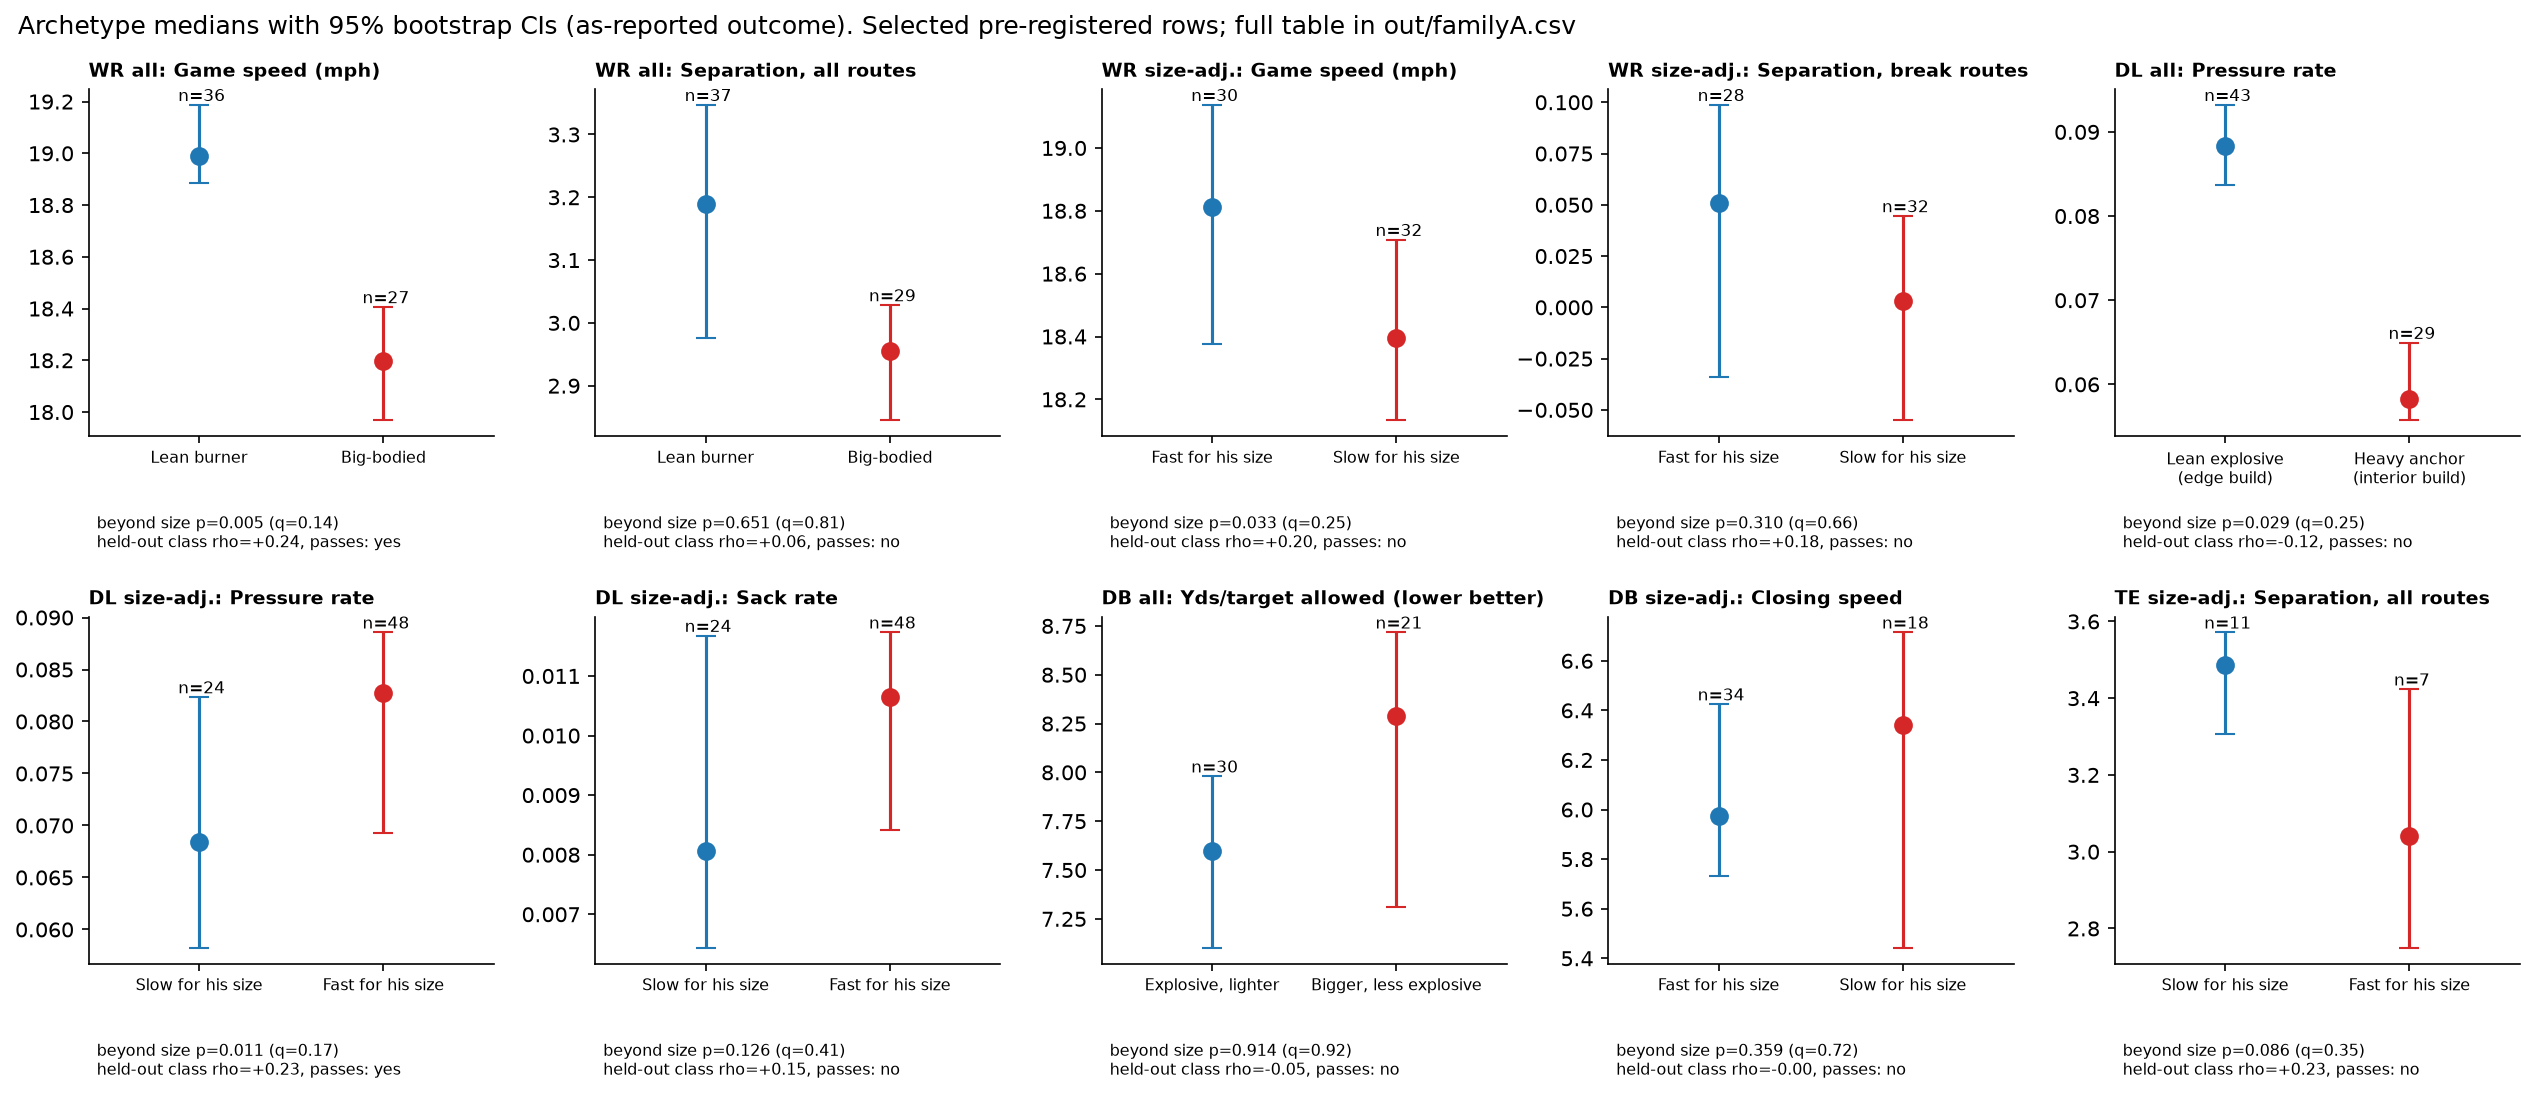
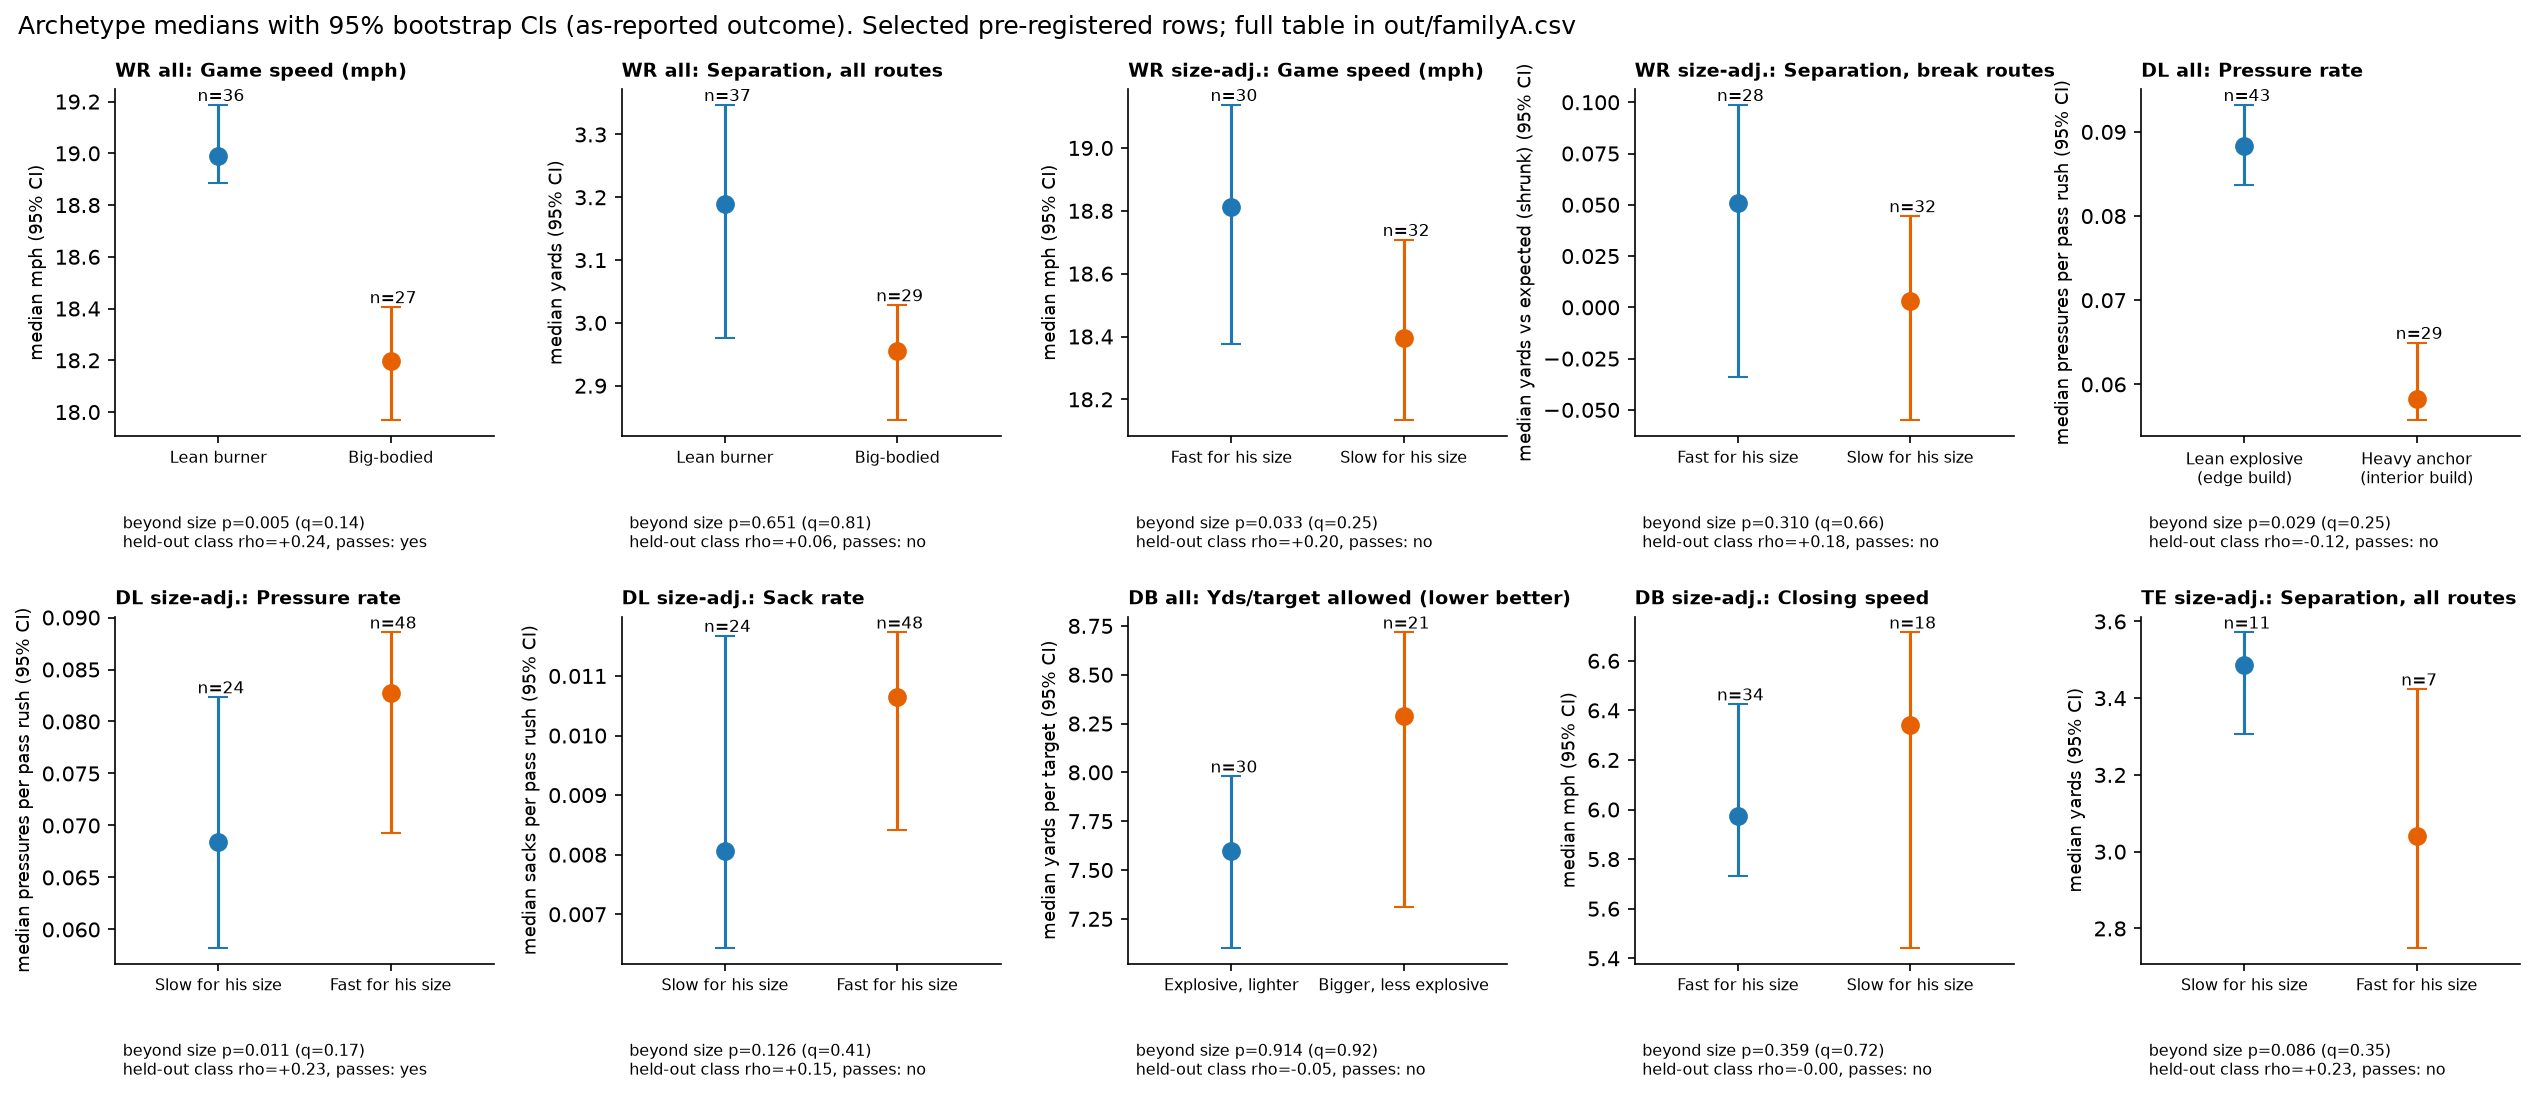
Unsupervised figs v2: labeled colorbars on heatmaps (fig5 row-% Blues, fig7 viridis alpha -0.2..1 with 0.6 threshold), colorblind-safe palette, axis labels/units

diff --git a/unsupervised/u06_figures.py b/unsupervised/u06_figures.py
@@ -5,6 +5,7 @@ import numpy as np, pandas as pd
 import matplotlib
 matplotlib.use("Agg")
 import matplotlib.pyplot as plt
+import matplotlib.ticker
 from sklearn.decomposition import PCA
 from sklearn.manifold import TSNE
 from common import CACHE, OUT, FIGS, GROUPS, SEED
@@ -23,7 +24,10 @@ OUTS = {"sunday_speed_mph": "Game speed (mph)", "sep_all_mean": "Separation, all
         "tackle_rate": "Tackle rate", "tfl_rate": "TFL rate", "close_rate_mph": "Closing speed", "pfr_yds_tgt": "Yds/target allowed (lower better)",
         "pfr_mtkl_pct": "Missed-tackle % (lower better)", "pressure_rate": "Pressure rate", "sack_rate": "Sack rate", "run_stop_rate": "Run-stop rate",
         "speed_1s_mph": "Get-off speed at 1 s"}
-C2 = ["#1f77b4", "#d62728", "#2ca02c"]
+UNITS = {"sunday_speed_mph": "mph", "sep_all_mean": "yards", "break_y": "yards vs expected (shrunk)", "pressure_rate": "pressures per pass rush",
+         "sack_rate": "sacks per pass rush", "pfr_yds_tgt": "yards per target", "close_rate_mph": "mph", "tfl_rate": "TFL per snap",
+         "tackle_rate": "tackles per snap", "pfr_mtkl_pct": "missed-tackle %", "run_stop_rate": "run stops per run snap", "speed_1s_mph": "mph"}
+C2 = ["#1f77b4", "#e66100", "#5e3c99"]   # blue / orange / purple: colourblind-safe
 
 
 def fig_biplot(cf, arch):
@@ -53,7 +57,7 @@ def fig_types():
     ax = axs[0]
     km = s[(s.method == "kmeans") & (s.fset == "ALL")]
     for i, g in enumerate(GROUPS):
-        d = km[km.group == g]; ax.plot(d.k, d.boot_ari_median, "o-", label=g)
+        d = km[km.group == g]; ax.plot(d.k, d.boot_ari_median, ["o-", "s--", "^-", "D-."][i], color=["#1f77b4", "#e66100", "#5e3c99", "#222222"][i], label=g)
     ax.axhline(.6, ls="--", c="k", lw=1); ax.text(6.05, .6, "stable\n(ARI 0.6)", fontsize=8, va="center")
     ax.set_xlabel("number of archetypes (k-means k)"); ax.set_ylabel("bootstrap stability (median ARI)"); ax.set_ylim(0, 1)
     ax.set_title("Only 2-way splits are stable", loc="left", fontweight="bold"); ax.legend(frameon=False)
@@ -67,11 +71,11 @@ def fig_types():
         for xi, (_, r) in zip(x, e.iterrows()):
             if r.p_one_blob < 0.05:
                 ax.text(xi + (j - 1) * w, r.sil_obs + .01, "*", ha="center", fontsize=14)
-    ax.set_xticks(x, GROUPS); ax.set_ylabel("silhouette (higher = more distinct types)")
+    ax.set_xticks(x, GROUPS); ax.set_xlabel("Position group"); ax.set_ylabel("silhouette (higher = more distinct types)")
     ax.set_title("Real data vs one continuous blob (black = blob median to 95th pct)", loc="left", fontweight="bold", fontsize=10)
-    ax.legend(frameon=False, fontsize=8); ax.text(0, -.16, "* = more distinct than a single blob (p < 0.05).\nOnly DL k = 2 (edge build vs interior build) and an unstable WR k = 3 qualify.",
+    ax.legend(frameon=False, fontsize=8); ax.text(0, -.24, "* = more distinct than a single blob (p < 0.05).\nOnly DL k = 2 (edge build vs interior build) and an unstable WR k = 3 qualify.",
                                                    transform=ax.transAxes, fontsize=8)
-    fig.tight_layout(rect=(0, .05, 1, 1)); fig.savefig(FIGS / "u_fig2_types_or_continuum.png", bbox_inches="tight"); plt.close(fig)
+    fig.tight_layout(rect=(0, .08, 1, 1)); fig.savefig(FIGS / "u_fig2_types_or_continuum.png", bbox_inches="tight"); plt.close(fig)
 
 
 def fig_centroids():
@@ -105,6 +109,7 @@ def fig_arch_outcome():
             ax.errorbar(e.arch, e["median"], yerr=[[e["median"] - e.boot_lo], [e.boot_hi - e["median"]]], fmt="o", ms=8, color=C2[int(e.arch)], capsize=5)
             ax.text(e.arch, e.boot_hi, f" n={e.n}", fontsize=8, va="bottom", ha="center")
         ax.set_xticks(d.arch, [ARCH_NAME[(g, fs)][int(k)].replace(" (", "\n(") for k in d.arch], fontsize=7.5); ax.set_xlim(-.6, 1.6)
+        ax.set_ylabel(f"median {UNITS[o]} (95% CI)", fontsize=8.5)
         ax.set_title(f"{g} {'size-adj.' if fs == 'SIZEADJ' else 'all'}: {OUTS[o]}", loc="left", fontsize=9, fontweight="bold")
         held = "yes" if (r.loso_p < .05 and r.loso_classes_pos >= 2 and r.loso_rho > 0) else "no"
         ax.text(.02, -.32, f"beyond size p={r.p_size:.3f} (q={r.q_size:.2f})\nheld-out class rho={r.loso_rho:+.2f}, passes: {held}", transform=ax.transAxes, fontsize=7.5)
@@ -119,19 +124,23 @@ def fig_crosstab():
           "DB": {0: "Deep / zone\n(high safety,\nbig cushion)", 1: "Man / press\n(tight, faster)"},
           "DL": {0: "Edge rusher\n(fast first second)", 1: "Interior\n(slower first second)"}}
     style_name = lambda g, k: SN[g][k]
-    fig, axs = plt.subplots(1, 4, figsize=(17, 4.6), gridspec_kw=dict(width_ratios=[3, 3, 2, 2], wspace=.75))
-    for ax, g in zip(axs, GROUPS):
+    fig, axs = plt.subplots(2, 2, figsize=(13, 9.5), gridspec_kw=dict(wspace=.55, hspace=.75))
+    for ax, g in zip(axs.flat, GROUPS):
         m = ct[ct.group == g].pivot_table(index="combine_arch", columns="game_style", values="count", fill_value=0)
         sh = m.div(m.sum(axis=1), axis=0)
-        ax.imshow(sh, cmap="Blues", vmin=0, vmax=1)
+        im = ax.imshow(sh, cmap="Blues", vmin=0, vmax=1)
         for i in range(m.shape[0]):
             for j in range(m.shape[1]):
-                ax.text(j, i, f"{int(m.iloc[i, j])}", ha="center", va="center", color="k" if sh.iloc[i, j] < .6 else "w")
+                ax.text(j, i, f"{int(m.iloc[i, j])}\n({sh.iloc[i, j]:.0%})", ha="center", va="center", fontsize=9, color="k" if sh.iloc[i, j] < .6 else "w")
+        ax.set_xlabel("In-game style (game movement + deployment cluster)", fontsize=9)
+        ax.set_ylabel("Combine archetype", fontsize=9)
         ax.set_yticks(range(m.shape[0]), [ARCH_NAME[(g, "ALL")][k].replace(" (", "\n(") for k in m.index], fontsize=8.5)
-        ax.set_xticks(range(m.shape[1]), [style_name(g, k) for k in m.columns], fontsize=7.5)
+        ax.set_xticks(range(m.shape[1]), [style_name(g, k) for k in m.columns], fontsize=8.5)
         r = t[t.group == g].iloc[0]
         ax.set_title(f"{g} (n={r.n}): ARI {r.ari:.2f}, q={r.q_ari:.3f}{'' if r.style_stable else ' (styles unstable)'}", loc="left", fontsize=9, fontweight="bold")
-    fig.suptitle("Combine archetype (rows) vs in-game movement/deployment style (columns): counts, shaded by row share", x=.01, ha="left")
+    cb = fig.colorbar(im, ax=list(axs.flat), fraction=.025, pad=.03)
+    cb.set_label("Share of the archetype's players\nin each game style (row %)", fontsize=9); cb.ax.yaxis.set_major_formatter(matplotlib.ticker.PercentFormatter(1.0))
+    fig.suptitle("Combine archetype (rows) vs in-game movement/deployment style (columns)\nCell = number of players (row %); shading = row %", x=.01, ha="left")
     fig.savefig(FIGS / "u_fig5_combine_vs_game_style.png", bbox_inches="tight"); plt.close(fig)
 
 
@@ -142,33 +151,40 @@ def fig_forest():
     fig, ax = plt.subplots(figsize=(10, 13))
     y = np.arange(len(b))
     held = (b.loso_p < .05) & (b.loso_classes_pos >= 2) & (b.loso_rho > 0)
-    col = np.where(b.q_size < .05, "#2ca02c", np.where(b.p_size < .05, "#ff7f0e", "0.6"))
+    col = np.where(b.q_size < .05, "#1f4e9c", np.where(b.p_size < .05, "#e66100", "0.6"))
     ax.hlines(y, b.lo, b.hi, color=col); ax.scatter(b.rho_size, y, c=col, s=np.where(held, 60, 20), zorder=3, edgecolor=np.where(held, "k", "none"))
     ax.axvline(0, c="k", lw=.8); ax.set_yticks(y, b.name, fontsize=7)
     ax.set_xlabel("rank partial correlation, draft year + weight + height (+ role) held fixed; 95% bootstrap CI")
-    ax.set_title("Latent Combine axes vs game outcomes (Family B)\ngreen = q < 0.05, orange = p < 0.05 only, grey = not detected\nbig black-edged dot = training-class fit also ranks the held-out class (either sign)", loc="left", fontsize=9)
+    ax.set_title("Latent Combine axes vs game outcomes (Family B)\ndark blue = q < 0.05, orange = p < 0.05 only, grey = not detected\nbig black-edged dot = training-class fit also ranks the held-out class (either sign)", loc="left", fontsize=9)
     fig.tight_layout(); fig.savefig(FIGS / "u_fig6_latent_axes_forest.png", bbox_inches="tight"); plt.close(fig)
 
 
 def fig_quality():
     r = pd.read_csv(OUT / "drill_reliability.csv"); ph = pd.read_csv(OUT / "posthoc.csv")
-    fig, axs = plt.subplots(1, 2, figsize=(13, 5), gridspec_kw=dict(wspace=.45))
+    fig, axs = plt.subplots(1, 2, figsize=(15, 5.4), gridspec_kw=dict(wspace=.9, width_ratios=[1, 1.1]))
     ax = axs[0]
     piv = r.pivot_table(index="feature", columns="group", values="alpha_k")[GROUPS]
     names = {"drill_top": "peak speed", "drill_acc": "peak accel", "drill_dec": "braking", "drill_keep": "speed kept in cuts", "drill_turn": "turn rate", "drill_dur": "duration"}
-    im = ax.imshow(piv.clip(-.2, 1), cmap="RdYlGn", vmin=-.2, vmax=1)
+    im = ax.imshow(piv.clip(-.2, 1), cmap="viridis", vmin=-.2, vmax=1)
     for i in range(piv.shape[0]):
         for j in range(piv.shape[1]):
-            ax.text(j, i, f"{piv.iloc[i, j]:.2f}", ha="center", va="center", fontsize=8)
+            v = piv.iloc[i, j]
+            ax.text(j, i, f"{v:.2f}" + (" *" if v >= .6 else ""), ha="center", va="center", fontsize=9, color="k" if v > .45 else "w",
+                    fontweight="bold" if v >= .6 else "normal")
     ax.set_xticks(range(4), GROUPS); ax.set_yticks(range(len(piv)), [names[i] for i in piv.index])
-    ax.set_title("Skill-drill tracking: does the trait\nrepeat across drills? (reliability alpha;\n0.6+ used, below = drill noise)", loc="left", fontsize=9, fontweight="bold")
+    ax.set_xlabel("Position group"); ax.set_ylabel("Skill-drill movement trait (tracking)")
+    cb = fig.colorbar(im, ax=ax, fraction=.06, pad=.05, ticks=[-.2, 0, .2, .4, .6, .8, 1.0])
+    cb.ax.set_yticklabels(["-0.2", "0.0", "0.2", "0.4", "0.6 trustworthy", "0.8", "1.0"], fontsize=8.5)
+    cb.set_label("Reliability (Cronbach's alpha): how consistently\na trait repeats across drills", fontsize=9)
+    cb.ax.axhline(.6, color="#e66100", lw=3)
+    ax.set_title("Skill-drill tracking: does the trait repeat across drills?\n(* = alpha 0.6 or more, used; below = drill noise, not used)", loc="left", fontsize=9, fontweight="bold")
     ax = axs[1]
     d = ph[ph.check.str.startswith("3 ") & ph.check.str.contains("f40_s1 vs ten_fast")]
     d2 = ph[ph.check.str.startswith("3 ") & ph.check.str.contains("f40_acc vs ten_fast")]
     x = np.arange(4)
     ax.bar(x - .2, d.rho, .4, label="tracked speed 1 s into the 40", color=C2[0]); ax.bar(x + .2, d2.rho, .4, label="tracked peak accel in the 40", color=C2[1])
-    ax.set_xticks(x, GROUPS); ax.axhline(0, c="k", lw=.8); ax.set_ylim(-.1, 1)
-    ax.set_ylabel("Spearman with official 10-yd split speed")
+    ax.set_xticks(x, GROUPS); ax.axhline(0, c="k", lw=.8); ax.set_ylim(-.1, 1); ax.set_xlabel("Position group")
+    ax.set_ylabel("Spearman ρ with official 10-yd split\n(faster split = higher; 1 = perfect agreement)")
     ax.set_title("Tracked 'launch' barely agrees with the official 10-yd split\n(10 Hz frames are too coarse for the first step, except heavier DL)", loc="left", fontsize=9, fontweight="bold")
     ax.legend(frameon=False, fontsize=8)
     fig.savefig(FIGS / "u_fig7_tracking_reliability.png", bbox_inches="tight"); plt.close(fig)
